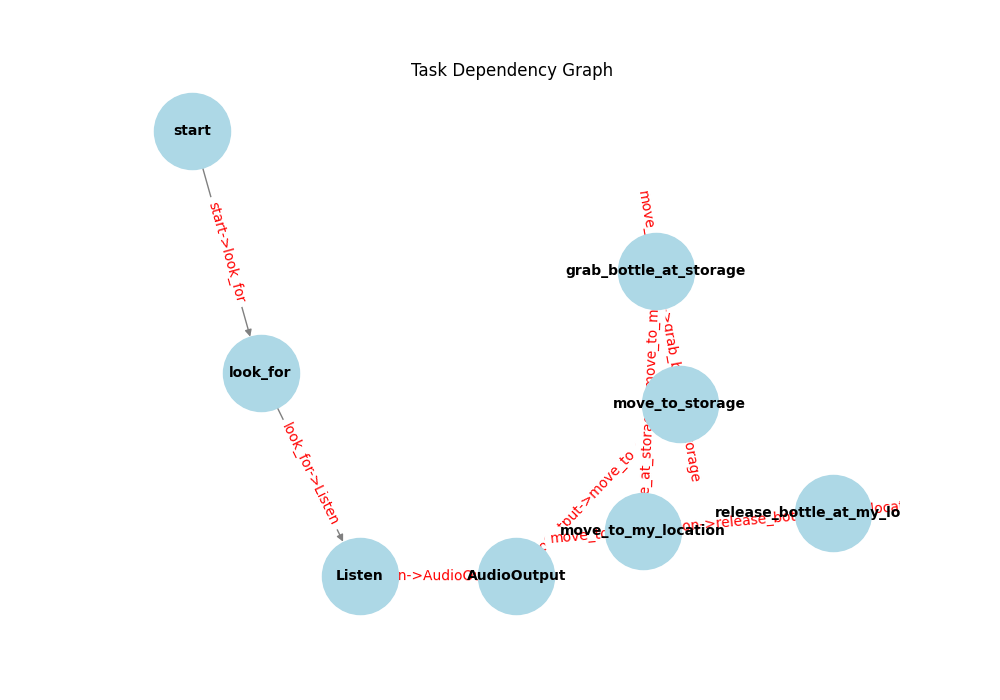
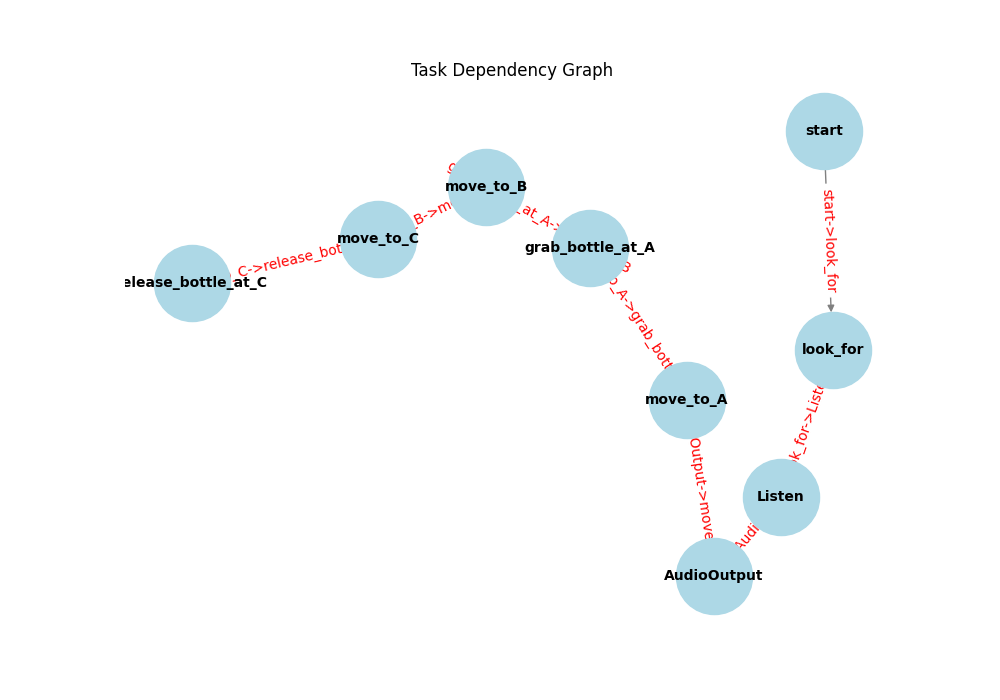
update test Readme

diff --git a/Readmefor_test.md b/Readmefor_test.md
@@ -1,0 +1,161 @@
+开机，先开机器人的红钮，然后是释放遥控器的红钮，然后会从黄色变成蓝色。如果有问题那么就直接都按，然后先开机器人的红钮，然后是释放遥控器的红钮。
+
+
+
+
+### Navigation
+sudo apt-get install ros-noetic-dwa-local-planner
+
+Terminal #1
+$ hsrb_mode
+$ rosnode kill /pose_integrator（这步只要按过按钮后就必须重运行）
+
+and open launch file
+$ roslaunch hsrb_navigation hsrb_nav_ics.launch map_file:=/workspaces/cup/hsrb_ws/src/hsrb_navigation/map/map.yaml
+（这两个指令永远不用关）
+（每次launch 只需要一次2D Pose Estimate）
+需要任意移动,可以在调好launch后 直接使用2D Nav Goal
+
+Terminal #2
+$ hsrb_mode
+$ rviz -d $(rospack find hsrb_navigation)/rviz/mapping.rviz
+（这两个指令永远不用关）
+
+Terminal #3 
+$ hsrb_mode
+$ roslaunch hsrb_navigation send_goal.launch room_name:=goal1
+（这个指令已经通过sm，调用，除非需要单独调试）
+
+### Reference
+## rqt
+$ rqt
+Next, choose Robot Tools > Robot Steering from Plugins found in the rqt menubar.
+Set the movement velocity topic /hsrb/command_velocity into the text box.
+
+
+### Task_planner
+
+已经封装成roslaunch文件, is_first_time 默认是True
+这在个launch 可以直接在sm中被调用
+
+$ roslaunch task_planner task_planner.launch instruction:="grab the bottle at A and move to B and move to D and move to C and release the bottle at C" is_first_time:=True
+$ roslaunch task_planner task_planner.launch instruction:="grab a bottle at storage and move to me and release the bottle"
+
+## Prepare
+pip install spacy
+python3 -m spacy download en_core_web_sm
+
+
+## Debug
+export XDG_RUNTIME_DIR=/tmp/runtime-$USER
+mkdir -p $XDG_RUNTIME_DIR
+chmod 0700 $XDG_RUNTIME_DIR
+
+
+
+ 
+
+
+
+
+
+
+
+
+
+
+$ hsrb_mode
+$ rosnode kill /pose_integrator
+
+$ rviz -d $(rospack find hsrb_rosnav_config)/launch/hsrb.rviz
+
+rosrun rviz rviz  -d `rospack find hsrb_common_launch`/config/hsrb_display_full_hsrb.rviz
+
+$ roslaunch hsrb_navigation hsrb_nav_ics.launch map_file:=/workspaces/adv_robocup/hsrb_ws/src/hsrb_navigation/map/map.yaml
+roslaunch hsrb_navigation hsrb_nav_ics.launch map_file:=/home/athome24-3/cup/hsrb_ws/src/hsrb_navigation/map/map.yaml
+
+可以使用 tf_echo 命令直接查看机器人在 /map 坐标系下的位置和姿态
+rosrun tf tf_echo /map /base_link
+
+
+##  Initialization of odometry
+roslaunch hsrb_navigation amcl.launch
+rosservice call /amcl/global_localization "{}"
+rosservice list | grep /amcl
+rosrun rqt_reconfigure rqt_reconfigure
+sudo apt-get install ros-noetic-laser-scan-matcher
+
+
+
+$ roslaunch hsrb_navigation hsrb_nav_ics.launch map_file:=/workspaces/cup/hsrb_ws/src/hsrb_navigation/map/map.yaml
+
+$ rviz -d $(rospack find hsrb_navigation)/rviz/mapping.rviz
+
+
+
+rosrun hsrb_navigation send_goal_message_yaml.py
+
+rosrun hsrb_navigation send_goal_action_yaml.py
+
+$ roslaunch hsrb_navigation send_goal.launch
+
+
+$ rostopic echo move_base_simple/goal
+###################################################################################
+sudo apt-get install ros-noetic-moveit
+
+sudo apt-get install ros-noetic-gmapping ros-noetic-map-server ros-noetic-amcl ros-noetic-move-base
+
+
+chmod +x 
+##Navigation
+
+roslaunch hsrb_bringup minimal.launch ##不用开启，是不是自动开启了
+
+roslaunch hsrb_navigation slam_gmapping.launch
+rosrun rviz rviz
+
+### 一键建图
+
+roslaunch hsrb_navigation mapping.launch
+
+rosrun map_server map_saver -f ~/map
+
+
+roslaunch hsrb_navigation mapping_with_rviz.launch
+
+
+##诊断
+
+SLAM节点依赖于激光雷达数据。如果没有正确的激光雷达数据输入，SLAM节点不会生成地图。
+
+
+rosrun tf view_frames
+evince frames.pdf
+
+roswtf
+
+你的问题可能是由于机器人在移动过程中没有足够的环境信息或者激光雷达数据无法有效覆盖整个地图，导致地图更新停滞
+
+
+###############################################################
+Map creation
+
+Terminal #1
+$ hsrb_mode
+$ rosnode kill /pose_integrator
+$ rviz -d $(rospack find hsrb_rosnav_config)/launch/hsrb.rviz
+
+
+Terminal #2
+$ hsrb_mode
+$ roslaunch hsrb_mapping hector.launch
+
+Terminal #3
+$ rqt
+Next, choose Robot Tools > Robot Steering from Plugins found in the rqt menubar.
+
+Terminal #4
+Saving a map
+$ rosrun map_server map_saver
+
